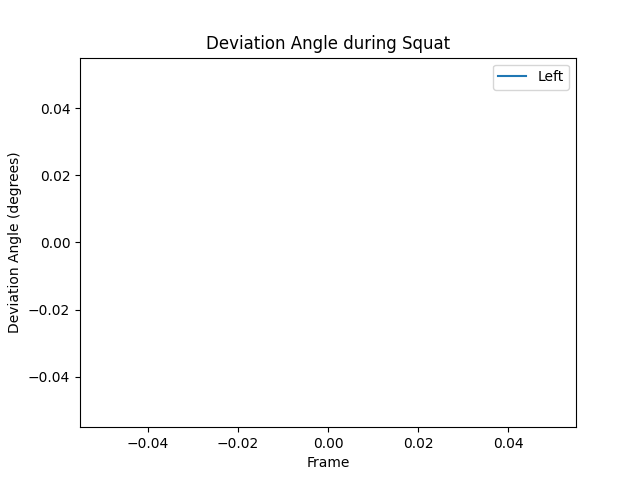
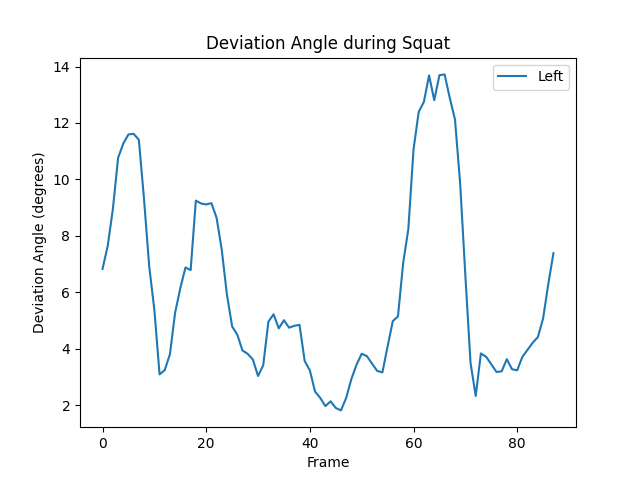
Implemented the Deviation angle in fpdf report

diff --git a/mediapipeFunctional.py b/mediapipeFunctional.py
@@ -139,9 +139,9 @@ def get_hipshin_angle(landmarks, mp_pose):
 	                         landmarks[mp_pose.PoseLandmark.RIGHT_ANKLE.value]]
 
 	# Extract the x, y, and z coordinates of the landmarks
-	torso_coordinates = [(landmark.x, landmark.y, landmark.z) for landmark in
+	torso_coordinates = [(value.x, value.y, value.z) for value in
 	                     torso_landmarks]
-	shin_coordinates = [(landmark.x, landmark.y, landmark.z) for landmark in
+	shin_coordinates = [(value.x, value.y, value.z) for value in
 	                    shin_landmarks]
 
 	# Calculate the vector of the torso plane
@@ -205,7 +205,7 @@ def generate_frames_file():
 					hip_angle = get_hip_angle(landmarks, mp_pose)
 					knee_angle = get_knee_angle(landmarks, mp_pose)
 					ankle_angle = get_ankle_angle(landmarks, mp_pose)
-					# deviation_angle = get_hipshin_angle(landmarks, mp_pose)
+					deviation_angle = get_hipshin_angle(landmarks, mp_pose)
 
 					start_frame, end_frame = start_stop(landmarks, mp_pose,
 					                                    cap, start_frame,
@@ -222,7 +222,7 @@ def generate_frames_file():
 						ankle_angle_data["L"].append(ankle_angle[0])
 						ankle_angle_data["R"].append(ankle_angle[1])
 
-						# deviation_angle_data.append(deviation_angle)
+						deviation_angle_data.append(deviation_angle)
 
 
 
@@ -271,7 +271,6 @@ def generate_frames_file():
 
 def make_plot(angle_data, name):
 	plt.figure()
-	print(type(angle_data))
 	if (type(angle_data) is dict):
 		plt.plot(angle_data["L"])
 		plt.plot(angle_data["R"])
@@ -306,16 +305,29 @@ def make_handout():
 
 	# Add text content
 	pdf.cell(0, 10, "The Functional Movement Assessment criteria is "
-	                "visualized below for the Deep Squat Test ", 0, 1)
+	                "visualized below for the Deep Squat Test ", ln=True)
 
 	# Set font and size for the content
 	pdf.set_font("Arial", "", 10)
 
 	# Add text content
-	pdf.cell(0, 10, "Functional Criteria", 0, 1)
+	pdf.cell(0, 20, "Functional Criteria", ln=True)
+
+	file_names_header = ["deviation"]
+
+	# Save the plot as an image
+	for i, name in enumerate(file_names_header):
+		plot_image_path = name + "_angle.png"
+
+		# Add the plot image to the PDF
+		pdf.image(plot_image_path, x=(10 + (90 * (i % 2))),
+		          y=(45),
+		          w=80,
+		          h=50)
 
 	# Add text content
-	pdf.cell(0, 10, "Joint Kinematics", 0, 1)
+	pdf.cell(0, 115, "Joint Kinematics", ln=True)
+
 
 	file_names = ["hip", "knee", "ankle"]
 
@@ -325,7 +337,7 @@ def make_handout():
 
 		# Add the plot image to the PDF
 		pdf.image(plot_image_path, x=(10 + (90 * (i % 2))),
-		                           y=(30 + (70 * np.floor(i/2))),
+		                           y=(110 + (70 * np.floor(i/2))),
 		                           w=100,
 		                           h=75)
 
